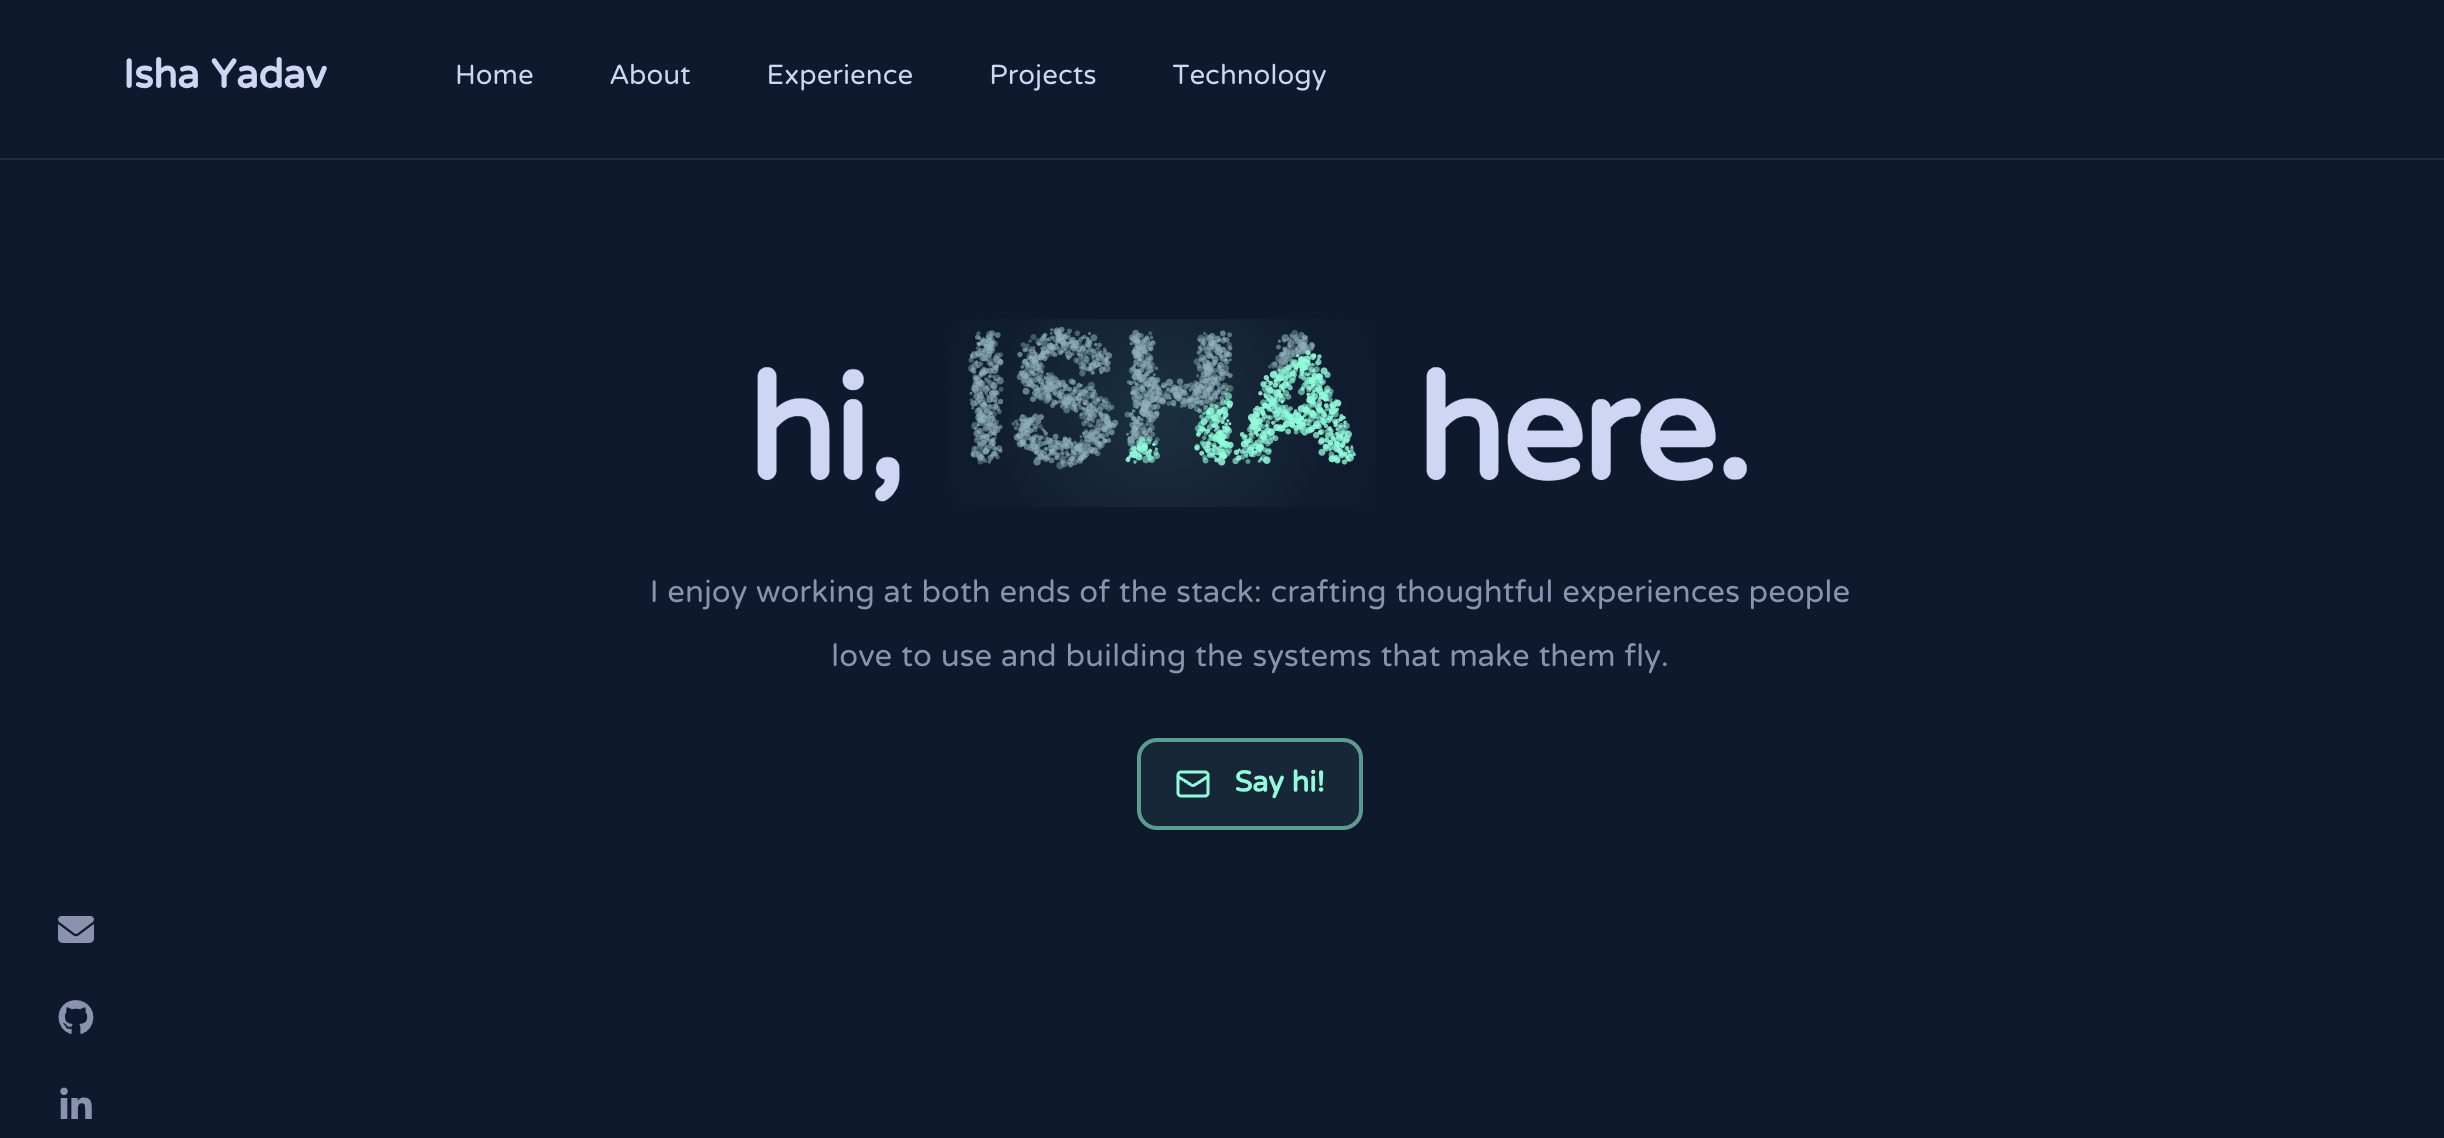
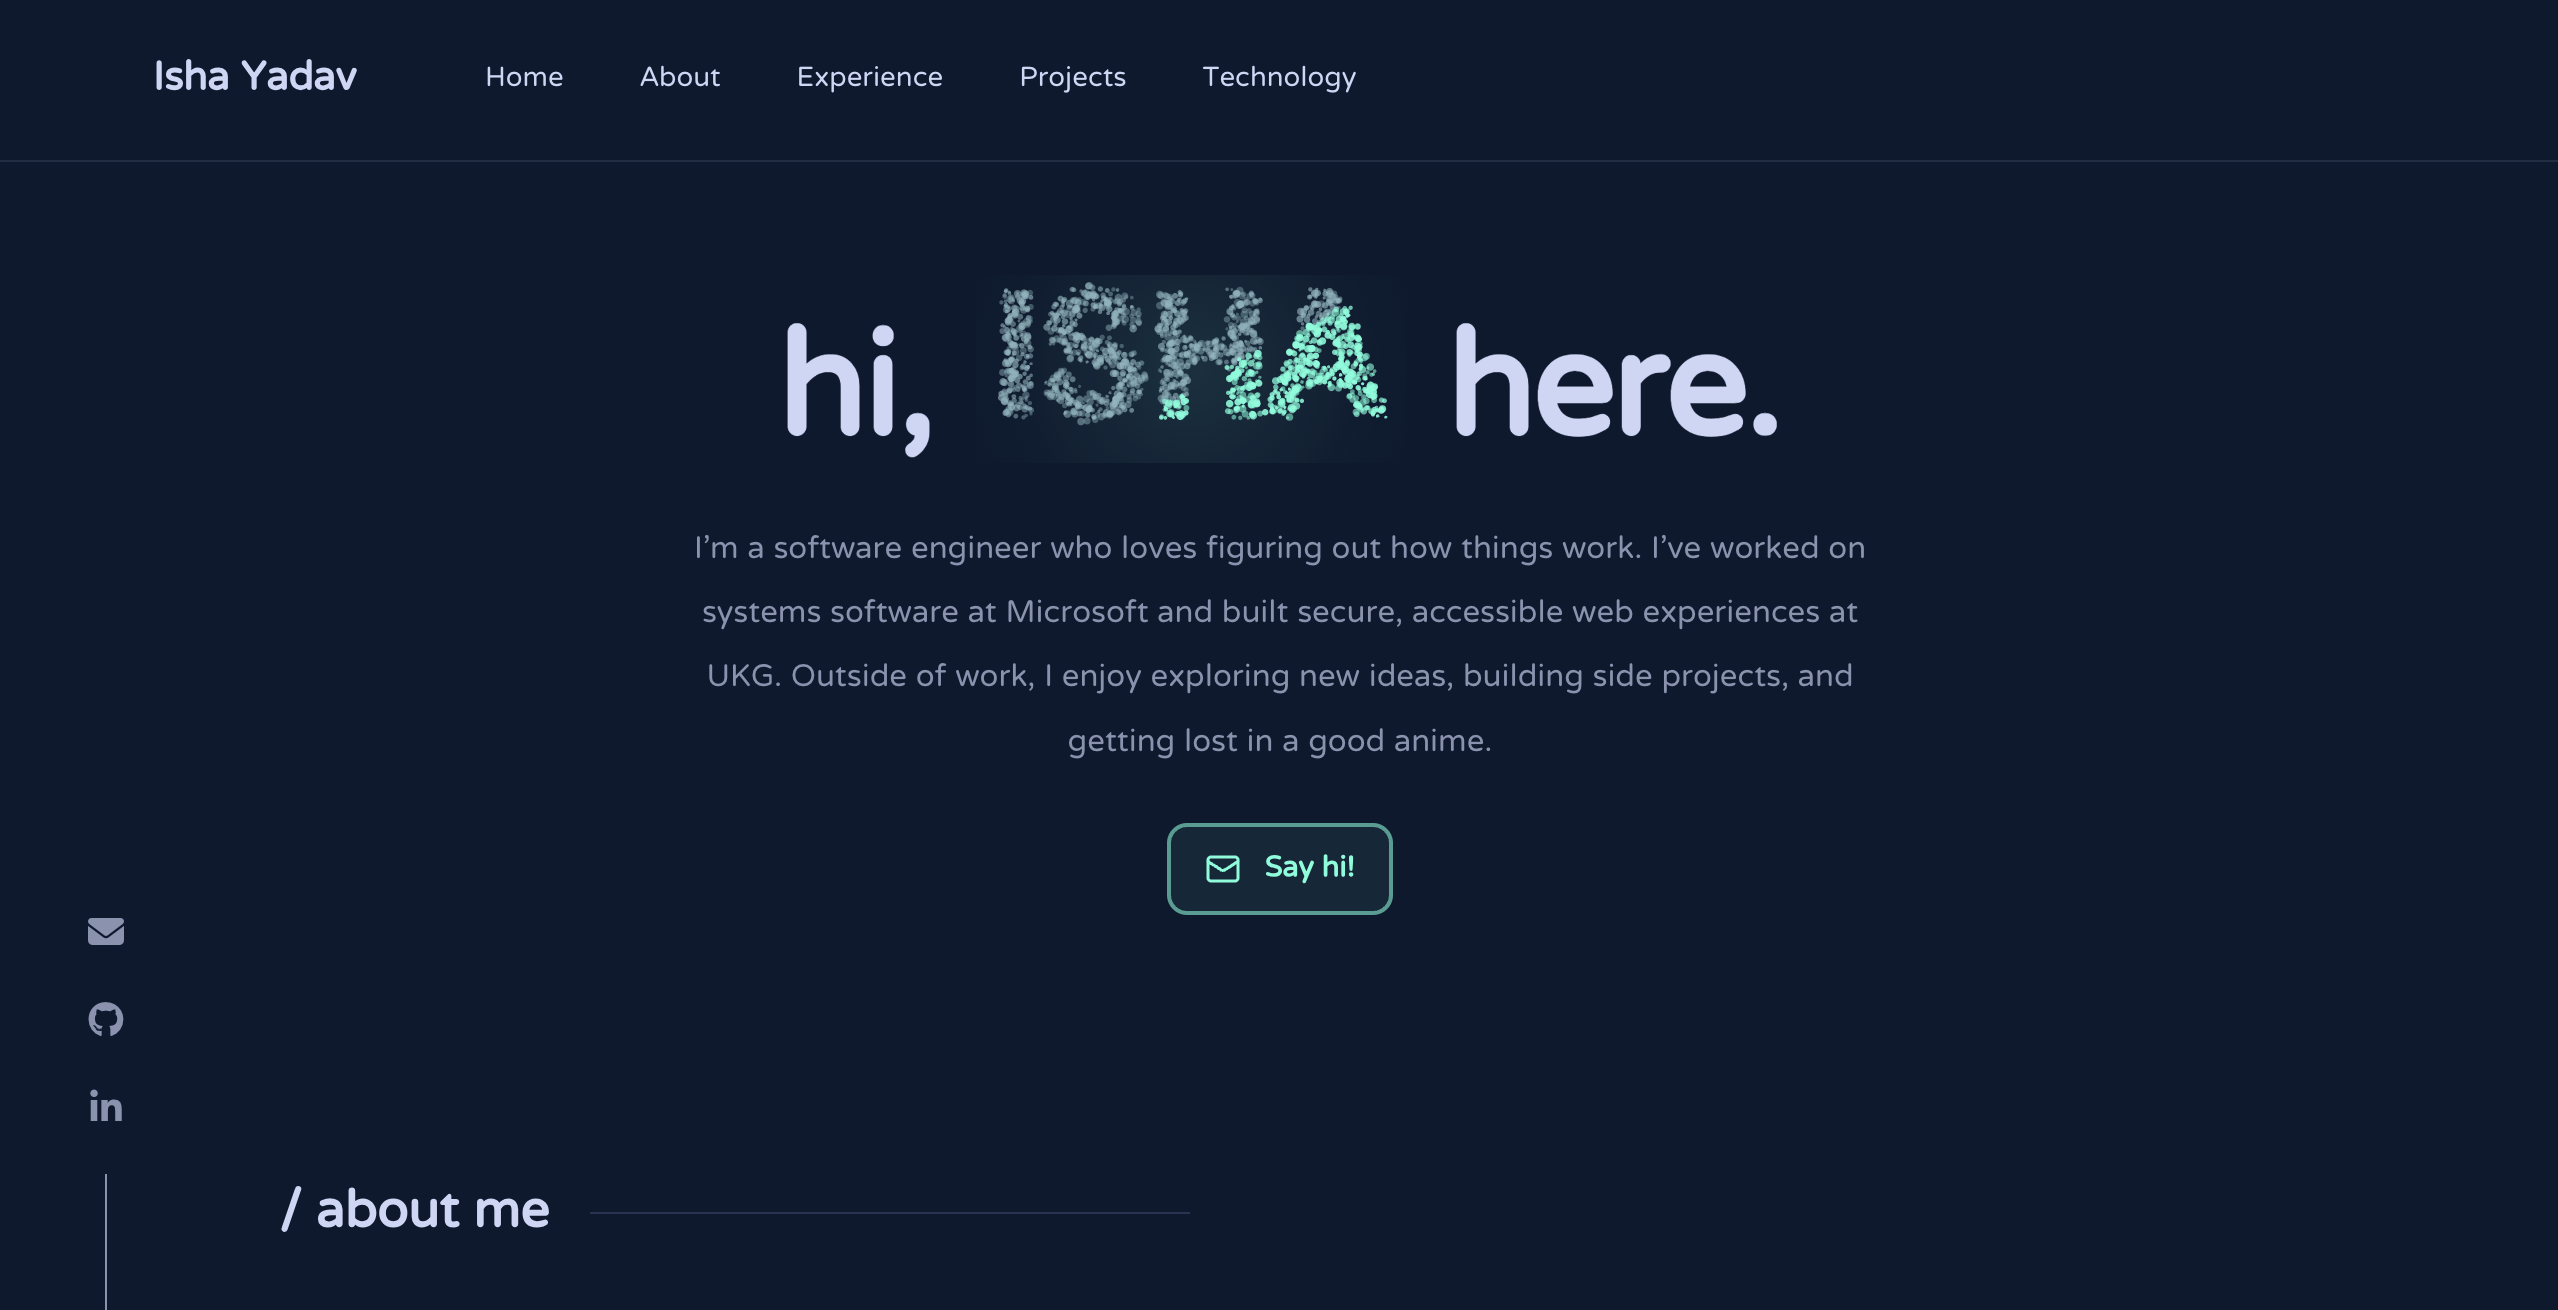
Update image paths and replace deprecated images in portfolio

diff --git a/src/components/Projects.jsx b/src/components/Projects.jsx
@@ -4,9 +4,6 @@ import PropTypes from "prop-types";
 import { useState } from "react";
 import { Link } from "react-router-dom";
 import SectionHeading from "./SectionHeading";
-import interviewPreview from "../../interview.png";
-import shellcraftPreview from "../../Shell.png";
-import portfolioPreview from "../../portfolio.png";
 
 const projects = [
   {
@@ -16,7 +13,7 @@ const projects = [
     description:
       "AI-powered interview preparation and resume tools, personalized to each role.",
     link: "https://github.com/Isha-Yadav-09/Interview-Ai",
-    image: interviewPreview,
+    image: `${import.meta.env.BASE_URL}images/interview.png`,
     imageAlt: "InterviewAI project preview",
   },
   {
@@ -26,7 +23,7 @@ const projects = [
     description:
       "A custom C shell with pipelines, job control, and useful everyday commands.",
     link: "https://github.com/Isha-Yadav-09/ShellCraft",
-    image: shellcraftPreview,
+    image: `${import.meta.env.BASE_URL}images/Shell.png`,
     imageAlt: "ShellCraft running in a macOS terminal",
   },
   {
@@ -35,7 +32,7 @@ const projects = [
     category: "Responsive Portfolio Website",
     description:
       "A responsive portfolio for my experience, projects, and technologies.",
-    image: portfolioPreview,
+    image: `${import.meta.env.BASE_URL}images/portfolio.png`,
     imageAlt: "Personal portfolio homepage preview",
   },
 ];

diff --git a/src/components/About.jsx b/src/components/About.jsx
@@ -8,7 +8,7 @@ function About() {
       <div className="about-content">
         <img
           className="about-photo"
-          src={`${import.meta.env.BASE_URL}Isha_Yadav_photo.jpeg`}
+          src={`${import.meta.env.BASE_URL}images/Isha_Yadav_photo.jpeg`}
           alt="Isha Yadav"
           loading="lazy"
         />

diff --git a/README.md b/README.md
@@ -2,7 +2,7 @@
 
 A personal portfolio built with React and Vite.
 
-![Portfolio homepage preview](image.png)
+![Portfolio homepage preview](public/images/portfolio.png)
 
 
 
